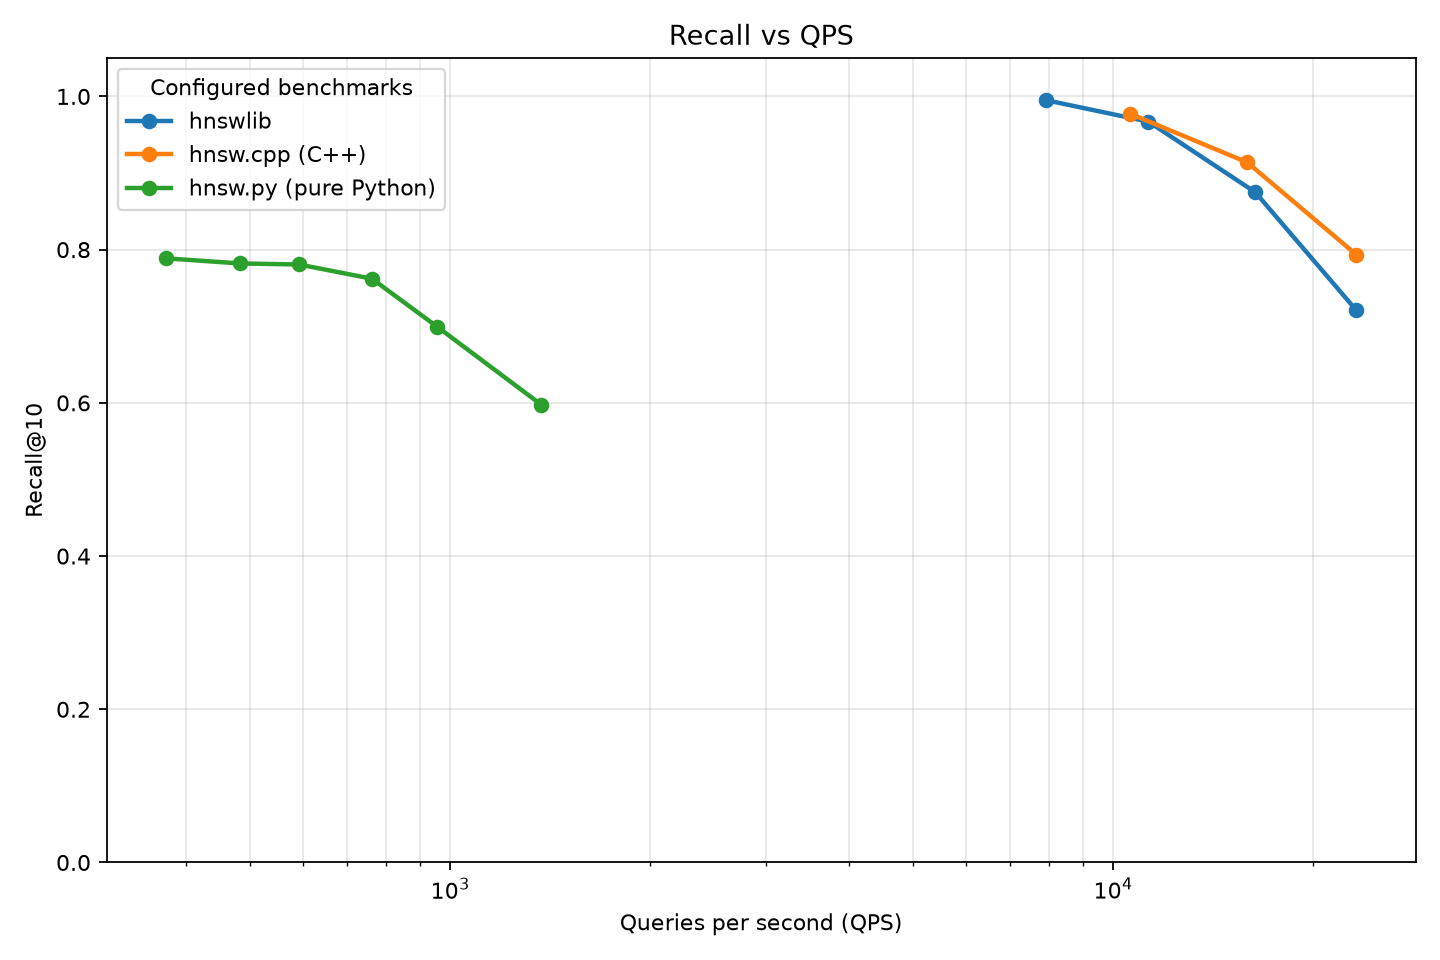
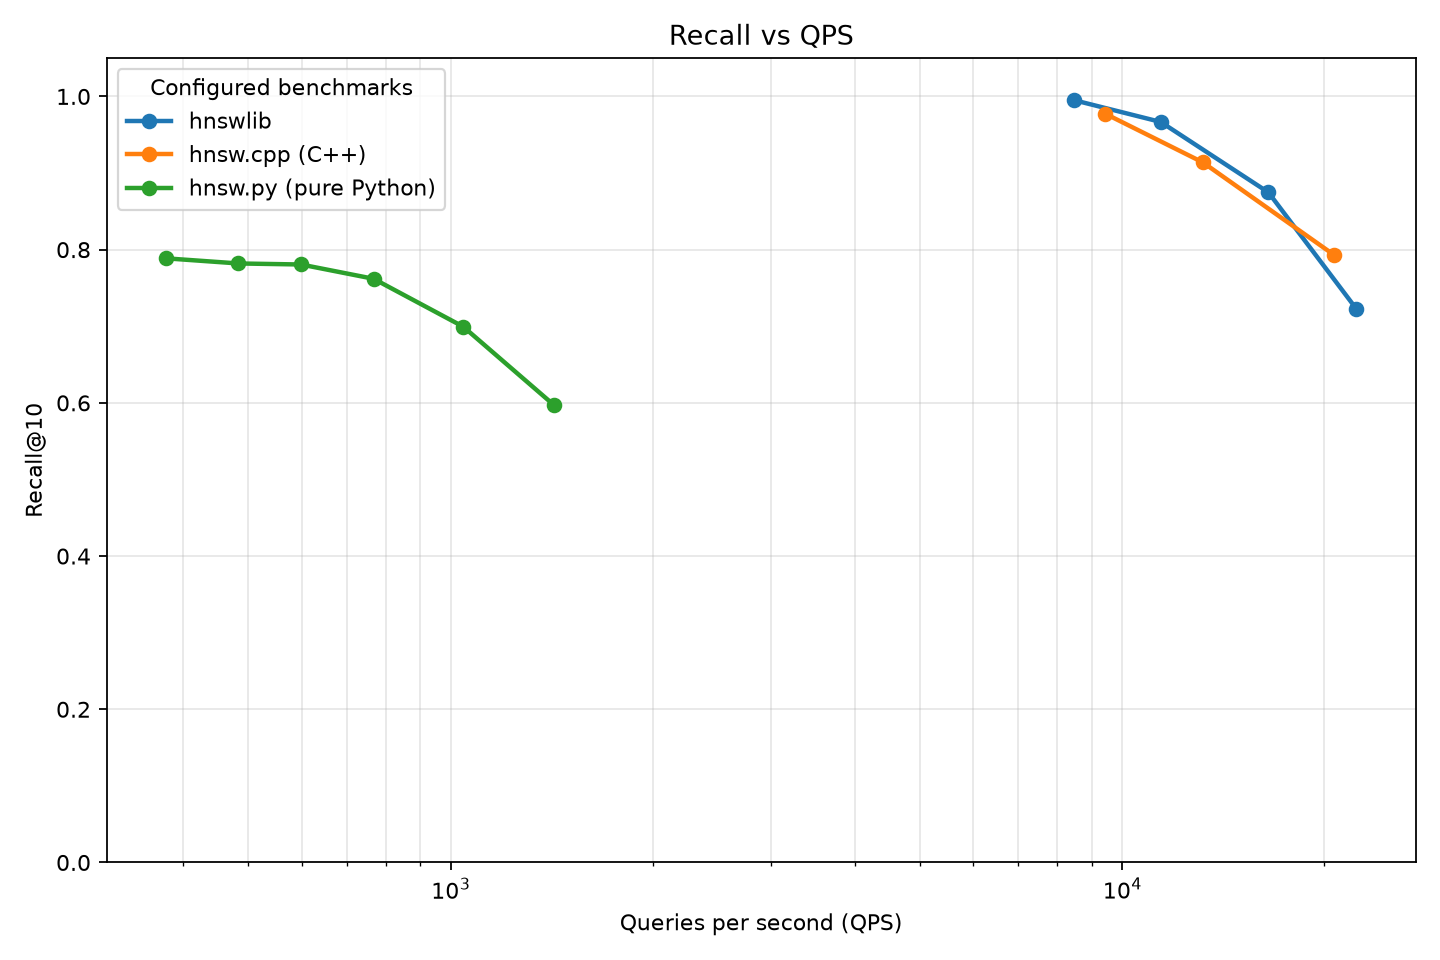
feat(hnsw.cpp): add subdist prefix-distance extrapolation

diff --git a/apps/hnsw.cpp/src/hnsw.cpp b/apps/hnsw.cpp/src/hnsw.cpp
@@ -92,6 +92,15 @@ Index::Index(Config config) : config_(config) {
     if (config_.generosity < 1.0) {
         throw std::invalid_argument("generosity must be at least 1.0");
     }
+    if (config_.subdist && config_.subdist_prefix == 0) {
+        throw std::invalid_argument("subdist_prefix must be positive");
+    }
+    if (config_.subdist_prefix > config_.dim) {
+        config_.subdist_prefix = config_.dim;
+    }
+    if (config_.subdist && config_.subdist_max_stddev < 0.0) {
+        throw std::invalid_argument("subdist_max_stddev must be non-negative");
+    }
 
     level_mult_ = 1.0 / std::log(static_cast<double>(config_.m));
     rng_.seed(config_.seed);
@@ -226,6 +235,71 @@ double Index::distance(NodeId left, NodeId right) const {
         abs2_[left],
     };
     return distance(prepared, right);
+}
+
+double Index::distance_with_threshold(const PreparedVector& query,
+                                      NodeId node,
+                                      double threshold) const {
+    if (!config_.subdist) {
+        return distance(query, node);
+    }
+
+    const std::size_t dim = config_.dim;
+    const std::size_t prefix =
+        std::min(config_.subdist_prefix, dim);
+    const std::size_t offset = static_cast<std::size_t>(node) * dim;
+
+    // Squared-distance prefix over the first ``prefix`` dimensions, using the
+    // per-vector scales to reconstruct approximate float values.
+    double prefix_sum = 0.0;
+    for (std::size_t i = 0; i < prefix; ++i) {
+        const double dq =
+            static_cast<double>(query.data[i]) * static_cast<double>(query.scale) -
+            static_cast<double>(data_[offset + i]) * static_cast<double>(scales_[node]);
+        prefix_sum += dq * dq;
+    }
+
+    // Extrapolate the prefix to the full dimensionality. For cosine (unit
+    // norm) the distance is half the squared L2 distance.
+    const double extrapolated =
+        prefix_sum * (static_cast<double>(dim) / static_cast<double>(prefix));
+    const double estimated =
+        (config_.space == Space::Cosine) ? 0.5 * extrapolated : extrapolated;
+
+    // Subdist is only safe for L2 and cosine. For inner product there is no
+    // bounded relationship between prefix squared distance and 1 - dot, so
+    // always compute the full distance.
+    const bool applicable = (config_.space == Space::L2 ||
+                             config_.space == Space::Cosine);
+
+    // Auto-detection: while sampling, always return the exact distance so
+    // recall is unaffected. After enough samples, enable early rejection
+    // only when the prefix/full ratio is stable.
+    if (applicable && subdist_samples_seen < config_.subdist_samples) {
+        const double full = distance(query, node);
+        if (full > 0.0) {
+            const double ratio = estimated / full;
+            ++subdist_samples_seen;
+            const double delta = ratio - subdist_ratio_mean;
+            subdist_ratio_mean += delta / static_cast<double>(subdist_samples_seen);
+            const double delta2 = ratio - subdist_ratio_mean;
+            subdist_ratio_m2 += delta * delta2;
+        }
+        if (subdist_samples_seen >= config_.subdist_samples) {
+            const double variance =
+                subdist_samples_seen > 1
+                    ? subdist_ratio_m2 / static_cast<double>(subdist_samples_seen - 1)
+                    : 0.0;
+            const double stddev = std::sqrt(std::max(0.0, variance));
+            subdist_enabled = (stddev < config_.subdist_max_stddev);
+        }
+        return full;
+    }
+
+    if (applicable && subdist_enabled && estimated > threshold) {
+        return estimated;
+    }
+    return distance(query, node);
 }
 
 Index::Level Index::random_level() {
@@ -403,7 +477,8 @@ std::vector<Index::Candidate> Index::search_layer(
                 continue;
             }
 
-            const double neighbor_distance = distance(query, neighbor);
+            const double neighbor_distance =
+                distance_with_threshold(query, neighbor, furthest_best());
             if (results.size() < ef ||
                 neighbor_distance < furthest_best()) {
                 candidates.push({neighbor_distance, neighbor});

diff --git a/apps/hnsw.cpp/tests/test_hnsw.cpp b/apps/hnsw.cpp/tests/test_hnsw.cpp
@@ -267,6 +267,39 @@ void test_invalid_generosity_raises() {
     CHECK_THROW(hnsw::Index(bad_gen), std::invalid_argument);
 }
 
+void test_invalid_subdist_prefix_raises() {
+    hnsw::Config bad_prefix{4, hnsw::Space::Cosine, 16, 200, 50, 100, true,
+                            hnsw::VisitedMode::Epoch, 1.1, 1.1, true, 0,
+                            10000, 0.1};
+    CHECK_THROW(hnsw::Index(bad_prefix), std::invalid_argument);
+}
+
+void test_subdist_search_works() {
+    constexpr std::size_t dim = 16;
+    constexpr std::size_t count = 200;
+    constexpr std::size_t query_count = 10;
+    constexpr std::size_t k = 5;
+
+    const std::vector<float> vectors = make_vectors(count, dim, 21);
+    const std::vector<float> queries = make_vectors(query_count, dim, 22);
+
+    for (const bool subdist : {true, false}) {
+        hnsw::Index index(hnsw::Config{
+            dim, hnsw::Space::Cosine, 8, 100, 50, 23, true,
+            hnsw::VisitedMode::Epoch, 1.1, 1.1, subdist, 8, 1000, 0.1,
+        });
+        index.add_items(vectors.data(), count);
+        for (std::size_t query = 0; query < query_count; ++query) {
+            const std::vector<float> query_vector(
+                queries.begin() + query * dim,
+                queries.begin() + (query + 1) * dim);
+            const hnsw::SearchResult result =
+                index.search(query_vector.data(), k);
+            CHECK(result.labels.size() == k);
+        }
+    }
+}
+
 void test_visited_modes() {
     constexpr std::size_t dim = 8;
     constexpr std::size_t count = 100;
@@ -357,7 +390,9 @@ int main() {
     test_invalid_space_raises();
     test_invalid_alpha_raises();
     test_invalid_generosity_raises();
+    test_invalid_subdist_prefix_raises();
     test_visited_modes();
+    test_subdist_search_works();
     test_invalid_parameters_raise();
     test_set_ef();
     test_index_size_is_positive();

diff --git a/apps/hnsw.cpp/src/bindings.cpp b/apps/hnsw.cpp/src/bindings.cpp
@@ -93,7 +93,11 @@ PYBIND11_MODULE(hnsw_cpp, module) {
                          bool heuristic,
                          const std::string& visited_mode,
                          double alpha,
-                         double generosity) {
+                         double generosity,
+                         bool subdist,
+                         std::size_t subdist_prefix,
+                         std::size_t subdist_samples,
+                         double subdist_max_stddev) {
                  return std::make_unique<hnsw::Index>(hnsw::Config{
                      dim,
                      hnsw::parse_space(space),
@@ -105,6 +109,10 @@ PYBIND11_MODULE(hnsw_cpp, module) {
                      hnsw::parse_visited_mode(visited_mode),
                      alpha,
                      generosity,
+                     subdist,
+                     subdist_prefix,
+                     subdist_samples,
+                     subdist_max_stddev,
                  });
              }),
              py::arg("dim"),
@@ -116,7 +124,11 @@ PYBIND11_MODULE(hnsw_cpp, module) {
              py::arg("heuristic") = true,
              py::arg("visited_mode") = "bloom",
              py::arg("alpha") = 1.1,
-             py::arg("generosity") = 1.1)
+             py::arg("generosity") = 1.1,
+             py::arg("subdist") = true,
+             py::arg("subdist_prefix") = 32,
+             py::arg("subdist_samples") = 10000,
+             py::arg("subdist_max_stddev") = 0.1)
         .def(
             "add_items",
             [](hnsw::Index& index, py::object vectors, py::object labels) {

diff --git a/apps/hnsw.cpp/include/hnsw/hnsw.hpp b/apps/hnsw.cpp/include/hnsw/hnsw.hpp
@@ -28,6 +28,10 @@ struct Config {
     VisitedMode visited_mode = VisitedMode::Bloom;
     double alpha = 1.1;
     double generosity = 1.1;
+    bool subdist = true;
+    std::size_t subdist_prefix = 32;
+    std::size_t subdist_samples = 10000;
+    double subdist_max_stddev = 0.1;
 };
 
 struct SearchResult {
@@ -106,6 +110,8 @@ private:
 
     double dot(const std::int16_t* a, const std::int16_t* b) const;
     double distance(const PreparedVector& query, NodeId node) const;
+    double distance_with_threshold(const PreparedVector& query, NodeId node,
+                                   double threshold) const;
     double distance(NodeId left, NodeId right) const;
 
     Level random_level();
@@ -141,6 +147,12 @@ private:
     mutable std::uint32_t visit_epoch_ = 0;
     mutable BloomFilter bloom_filter_;
     mutable double diameter_ = 0.0;
+    // Subdist auto-detection state (Welford statistics over prefix/full
+    // distance ratios), mutable because search is const.
+    mutable std::size_t subdist_samples_seen = 0;
+    mutable double subdist_ratio_mean = 0.0;
+    mutable double subdist_ratio_m2 = 0.0;
+    mutable bool subdist_enabled = false;
     std::vector<std::int16_t> quantization_buffer_;
 };
 

diff --git a/scripts/bench/bench/systems/hnsw_cpp.py b/scripts/bench/bench/systems/hnsw_cpp.py
@@ -21,6 +21,10 @@ def _build(train: np.ndarray, params: Mapping[str, Any]) -> tuple[Any, float]:
         visited_mode=str(params.get("visited_mode", "bloom")),
         alpha=float(params.get("alpha", 1.1)),
         generosity=float(params.get("generosity", 1.1)),
+        subdist=bool(params.get("subdist", True)),
+        subdist_prefix=int(params.get("subdist_prefix", 32)),
+        subdist_samples=int(params.get("subdist_samples", 10000)),
+        subdist_max_stddev=float(params.get("subdist_max_stddev", 0.1)),
     )
 
     labels = np.arange(train.shape[0], dtype=np.uint64)

diff --git a/apps/hnsw.cpp/README.md b/apps/hnsw.cpp/README.md
@@ -105,6 +105,10 @@ the benchmark.
 | `visited_mode` | `epoch` for exact per-search marks, `bloom` for a compact probabilistic set |
 | `alpha` | Pruning slack for neighbour selection; `1.0` disables slack |
 | `generosity` | Search leniency; `1.0` uses the standard early-break rule |
+| `subdist` | Use prefix-distance extrapolation to skip full distance computations |
+| `subdist_prefix` | Number of leading dimensions used for the prefix estimate |
+| `subdist_samples` | How many distances to sample before deciding whether to use subdist |
+| `subdist_max_stddev` | Max stddev of the prefix/full ratio to enable subdist |
 
 ## Demo
 
